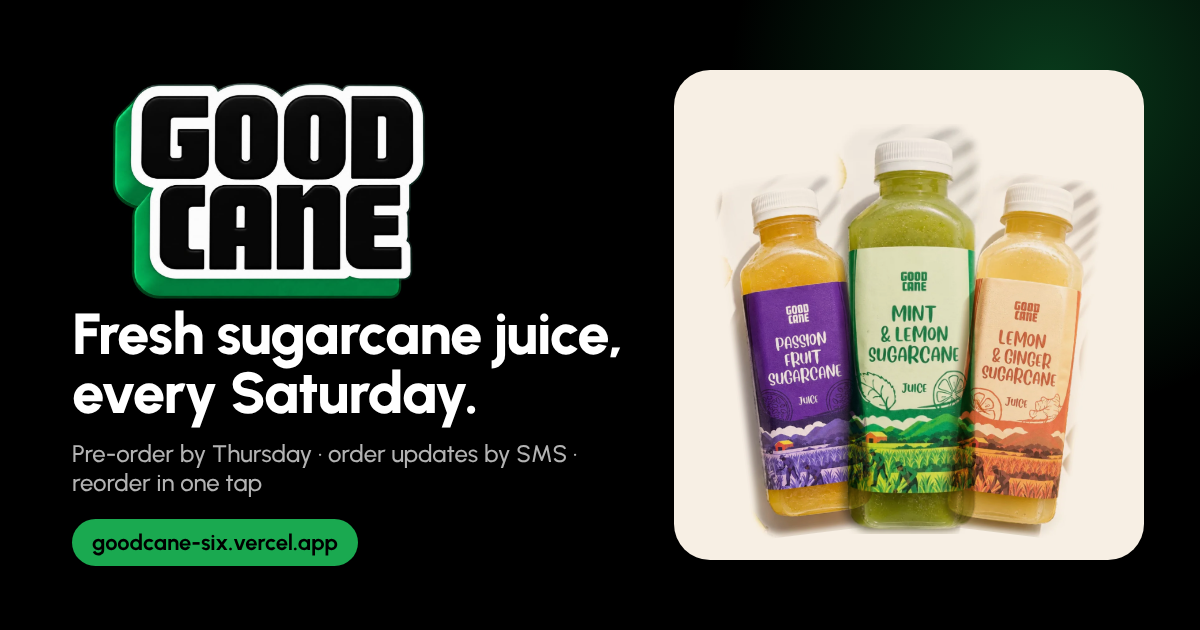
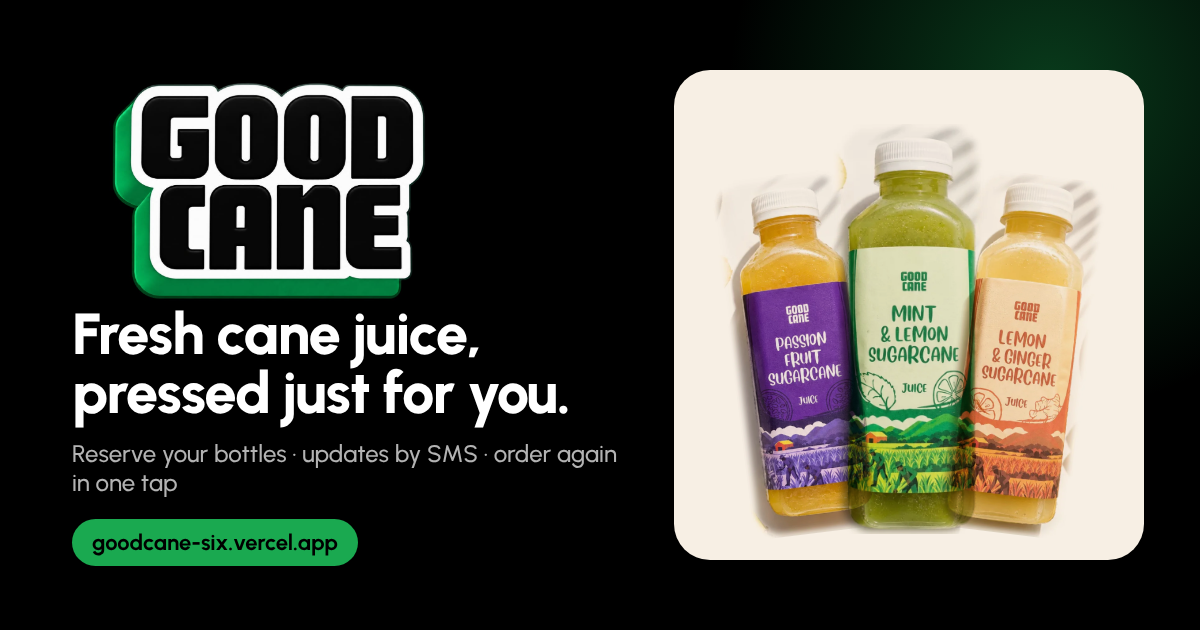
Friendlier shop copy without weekday wording; full submission PDF with judge access
- Customer pages show dates ("31 October") instead of weekdays
- New hero, banner and how-it-works copy
- docs/GoodCane-Submission.pdf: links, judge login, screenshots, write-up and measurement plan
- Write-up and README list the demo links and judge login

Claude-Session: https://claude.ai/code/session_01FJxmoPFWqV3xLp5Ecq4ud8

Changed region(s): [[0.0617, 0.5127, 0.5242, 0.7841]]

diff --git a/src/pages/customer/Home.tsx b/src/pages/customer/Home.tsx
@@ -1,5 +1,5 @@
 import { useEffect, useRef, useState } from 'react'
-import { formatDay, openBatches } from '../../domain/batches'
+import { formatDate, openBatches } from '../../domain/batches'
 import { BOTTLE_SIZE, PRODUCTS, TASTES } from '../../domain/catalog'
 import { BagIcon, BellIcon, ChatIcon, FilterIcon, HeartIcon, SearchIcon, SunIcon } from '../../components/icons'
 import { supabase } from '../../lib/supabase'
@@ -8,8 +8,6 @@ import { href, type Route } from '../../router'
 import { useShop } from '../../shop/ShopProvider'
 import { lastReorderable, reorderBatch } from './reorder'
 
-const weekday = (d: Date) => d.toLocaleDateString('en-GB', { weekday: 'long' })
-const hour = (d: Date) => `${d.getHours() % 12 || 12}${d.getHours() >= 12 ? 'pm' : 'am'}`
 
 export function Home({ route }: { route: Route }) {
   const { orders, now, me, basket, setBasketQty, favourites, toggleFavourite, flash } = useShop()
@@ -57,11 +55,14 @@ export function Home({ route }: { route: Route }) {
     <div className="home">
       <section className="home-top">
         <div className="home-title">
-          <h1>
-            Fresh from the cane,
-            <br />
-            every {weekday(next.productionDate)}
-          </h1>
+          <div>
+            <p className="greeting">Akwaaba</p>
+            <h1>
+              Fresh cane juice,
+              <br />
+              pressed just for you
+            </h1>
+          </div>
           <a className="round-btn" href={href('/account')} aria-label="Text reminders">
             <BellIcon />
           </a>
@@ -91,7 +92,7 @@ export function Home({ route }: { route: Route }) {
 
         <a className="promo" href={href('/cart')}>
           <div className="promo-text">
-            <span className="promo-kicker">Next batch · {formatDay(next.productionDate)}</span>
+            <span className="promo-kicker">Next fresh batch · {formatDate(next.productionDate)}</span>
             {reserved != null && reserved > 0 && (
               <span className="reserved">
                 <span className="pulse" aria-hidden="true" />
@@ -99,7 +100,7 @@ export function Home({ route }: { route: Route }) {
               </span>
             )}
             <strong>
-              Order by {weekday(next.cutoff)} {hour(next.cutoff)}. Pay when we confirm.
+              Reserve your bottles now. Pay only when we confirm.
             </strong>
             <span className="promo-row">
               <span className="pill-btn">Order now</span>
@@ -123,7 +124,7 @@ export function Home({ route }: { route: Route }) {
             <LinesList lines={last.lines} />
           </div>
           <a className="pill-btn dark" href={href(`/order?from=${last.id}`)}>
-            Order again for {formatDay(again.productionDate)}
+            Order again for {formatDate(again.productionDate)}
           </a>
         </section>
       )}
@@ -177,8 +178,8 @@ export function Home({ route }: { route: Route }) {
               <BagIcon />
             </span>
             <div>
-              <strong>Order by {weekday(next.cutoff)}</strong>
-              <p>Pick your juices, pickup or delivery. Nothing to pay yet.</p>
+              <strong>Choose your juice</strong>
+              <p>Pick your flavours and how you'd like to get them. No payment upfront.</p>
             </div>
           </li>
           <li>
@@ -186,8 +187,8 @@ export function Home({ route }: { route: Route }) {
               <ChatIcon />
             </span>
             <div>
-              <strong>We confirm by SMS</strong>
-              <p>Your order number arrives straight away, then a text once it's confirmed.</p>
+              <strong>We'll text you</strong>
+              <p>Your order number comes by SMS straight away, and we text again once it's confirmed.</p>
             </div>
           </li>
           <li>
@@ -195,8 +196,8 @@ export function Home({ route }: { route: Route }) {
               <SunIcon />
             </span>
             <div>
-              <strong>Fresh on {weekday(next.productionDate)}</strong>
-              <p>Pressed that morning. We text you when it's ready. Same again next week in one tap.</p>
+              <strong>Pressed fresh for you</strong>
+              <p>Squeezed on the day, never stored. Loved it? Order the same again in one tap.</p>
             </div>
           </li>
         </ol>

diff --git a/index.html b/index.html
@@ -7,20 +7,20 @@
     <link rel="manifest" href="/manifest.webmanifest" />
     <meta name="viewport" content="width=device-width, initial-scale=1.0" />
     <meta name="theme-color" content="#ffffff" />
-    <title>GoodCane · Fresh sugarcane juice, every Saturday</title>
-    <meta name="description" content="Pre-order GoodCane's fresh sugarcane juice by Thursday for Saturday's batch. Order updates by SMS and reorder in one tap." />
+    <title>GoodCane · Fresh cane juice, pressed just for you</title>
+    <meta name="description" content="Reserve fresh GoodCane sugarcane juice from Accra. Order updates by SMS, and order again in one tap." />
     <meta property="og:type" content="website" />
     <meta property="og:site_name" content="GoodCane" />
     <meta property="og:url" content="https://goodcane-six.vercel.app/" />
-    <meta property="og:title" content="GoodCane · Fresh sugarcane juice, every Saturday" />
-    <meta property="og:description" content="Pre-order by Thursday for Saturday's fresh batch. Order updates by SMS, reorder in one tap." />
+    <meta property="og:title" content="GoodCane · Fresh cane juice, pressed just for you" />
+    <meta property="og:description" content="Reserve your bottles from Accra's freshest sugarcane juice. Updates by SMS, order again in one tap." />
     <meta property="og:image" content="https://goodcane-six.vercel.app/og-image.png" />
     <meta property="og:image:width" content="1200" />
     <meta property="og:image:height" content="630" />
     <meta property="og:image:alt" content="GoodCane logo with three bottles of sugarcane juice" />
     <meta name="twitter:card" content="summary_large_image" />
-    <meta name="twitter:title" content="GoodCane · Fresh sugarcane juice, every Saturday" />
-    <meta name="twitter:description" content="Pre-order by Thursday for Saturday's fresh batch. Order updates by SMS, reorder in one tap." />
+    <meta name="twitter:title" content="GoodCane · Fresh cane juice, pressed just for you" />
+    <meta name="twitter:description" content="Reserve your bottles from Accra's freshest sugarcane juice. Updates by SMS, order again in one tap." />
     <meta name="twitter:image" content="https://goodcane-six.vercel.app/og-image.png" />
     <link rel="preconnect" href="https://fonts.googleapis.com" />
     <link rel="preconnect" href="https://fonts.gstatic.com" crossorigin />

diff --git a/src/pages/customer/Receipt.tsx b/src/pages/customer/Receipt.tsx
@@ -1,5 +1,5 @@
 import { useEffect, useState } from 'react'
-import { batchFromId, formatCutoff, formatDay } from '../../domain/batches'
+import { batchFromId, formatClose, formatDate } from '../../domain/batches'
 import { bottles, canCustomerCancel, formatOrderNumber } from '../../domain/orders'
 import { maskPhone } from '../../domain/sms'
 import type { Order, OrderStatus, SmsLog } from '../../domain/types'
@@ -98,7 +98,7 @@ export function Receipt({ id, route }: { id: string; route: Route }) {
           <StatusPill status={order.status} customer />
         </div>
         <p className="small muted">
-          {formatDay(batch.productionDate)} · {order.fulfilment === 'pickup' ? 'Pickup' : 'Delivery'} · {order.location}
+          {formatDate(batch.productionDate)} · {order.fulfilment === 'pickup' ? 'Pickup' : 'Delivery'} · {order.location}
         </p>
         <hr />
         <LinesList lines={order.lines} />
@@ -127,7 +127,7 @@ export function Receipt({ id, route }: { id: string; route: Route }) {
           <button className="btn btn-ghost btn-block" onClick={() => void cancel()} disabled={busy}>
             {busy ? 'Cancelling…' : 'Cancel order'}
           </button>
-          <p className="small muted center">You can cancel until {formatCutoff(batch.cutoff)}.</p>
+          <p className="small muted center">You can cancel until {formatClose(batch.cutoff)}.</p>
         </>
       )}
 
@@ -143,7 +143,7 @@ export function Receipt({ id, route }: { id: string; route: Route }) {
 
       {order.status !== 'cancelled' && mine && !isNew && (
         <a className="btn btn-primary btn-block" href={href(`/order?from=${order.id}&batch=${nextOpen.id}`)}>
-          Order this again for {formatDay(nextOpen.productionDate)}
+          Order this again for {formatDate(nextOpen.productionDate)}
         </a>
       )}
       <a className="btn btn-ghost btn-block" href={href('/orders')}>

diff --git a/src/pages/customer/OrderForm.tsx b/src/pages/customer/OrderForm.tsx
@@ -1,5 +1,5 @@
 import { useMemo, useState, type FormEvent } from 'react'
-import { formatCutoff, formatDay, openBatches } from '../../domain/batches'
+import { formatClose, formatDate, openBatches } from '../../domain/batches'
 import { bottles, formatOrderNumber, isValidPhone } from '../../domain/orders'
 import { DELIVERY_AREAS, PICKUP_POINTS, PRODUCTS } from '../../domain/catalog'
 import type { Fulfilment, Source } from '../../domain/types'
@@ -84,13 +84,13 @@ export function OrderForm({ route }: { route: Route }) {
       <div className="checkout-grid">
         <div className="checkout-main">
           <section className="panel">
-            <h2>Which Saturday?</h2>
+            <h2>Which batch?</h2>
             <div className="day-chips">
               {batches.map((b) => (
                 <label key={b.id} className={`day-chip ${b.id === batchId ? 'on' : ''}`}>
                   <input type="radio" name="batch" value={b.id} checked={b.id === batchId} onChange={() => setBatchId(b.id)} />
-                  <strong>{formatDay(b.productionDate)}</strong>
-                  <span>order by {formatCutoff(b.cutoff)}</span>
+                  <strong>{formatDate(b.productionDate)}</strong>
+                  <span>orders close {formatClose(b.cutoff)}</span>
                 </label>
               ))}
             </div>
@@ -173,7 +173,7 @@ export function OrderForm({ route }: { route: Route }) {
           </div>
           <div className="summary-line">
             <span>Collect</span>
-            <strong>{formatDay(batch.productionDate)}</strong>
+            <strong>{formatDate(batch.productionDate)}</strong>
           </div>
           <div className="summary-line total">
             <span>Payment</span>

diff --git a/src/pages/customer/Cart.tsx b/src/pages/customer/Cart.tsx
@@ -1,5 +1,5 @@
 import { useRef, useState } from 'react'
-import { formatCutoff, formatDay, openBatches } from '../../domain/batches'
+import { formatClose, formatDate, openBatches } from '../../domain/batches'
 import { BOTTLE_SIZE, PRODUCTS } from '../../domain/catalog'
 import type { Product } from '../../domain/types'
 import { TrashIcon } from '../../components/icons'
@@ -93,7 +93,7 @@ export function Cart({ route }: { route: Route }) {
           </div>
           <h2>Nothing here yet</h2>
           <p>
-            Pick a few juices for {formatDay(next.productionDate)}. Orders close {formatCutoff(next.cutoff)}.
+            Pick a few juices for {formatDate(next.productionDate)}. Orders close {formatClose(next.cutoff)}.
           </p>
           <a className="pill-btn dark big" href={href('/')}>
             See the menu
@@ -127,7 +127,7 @@ export function Cart({ route }: { route: Route }) {
             </div>
             <div className="summary-line">
               <span>Next batch</span>
-              <strong>{formatDay(next.productionDate)}</strong>
+              <strong>{formatDate(next.productionDate)}</strong>
             </div>
             <div className="summary-line dashed">
               <span>Payment</span>

diff --git a/src/pages/customer/Flavour.tsx b/src/pages/customer/Flavour.tsx
@@ -1,5 +1,5 @@
 import { useRef, useState } from 'react'
-import { formatCutoff, formatDay, openBatches } from '../../domain/batches'
+import { formatClose, formatDate, openBatches } from '../../domain/batches'
 import { BOTTLE_SIZE, PRODUCTS } from '../../domain/catalog'
 import { ArrowsIcon, BackIcon, HeartIcon, ShareIcon } from '../../components/icons'
 import { Stepper } from '../../components/ui'
@@ -132,7 +132,7 @@ export function Flavour({ id }: { id: string }) {
             </button>
           </div>
           <p className="fine">
-            {inOrder > 0 ? `${inOrder} in your order · ` : ''}For {formatDay(next.productionDate)}, order by {formatCutoff(next.cutoff)}. Price confirmed by SMS.
+            {inOrder > 0 ? `${inOrder} in your order · ` : ''}For {formatDate(next.productionDate)}, orders close {formatClose(next.cutoff)}. Price confirmed by SMS.
           </p>
           {inOrder > 0 && (
             <a className="link" href={href('/cart')}>

diff --git a/src/pages/customer/MyOrders.tsx b/src/pages/customer/MyOrders.tsx
@@ -1,5 +1,5 @@
 import { useState, type FormEvent } from 'react'
-import { batchFromId, formatDay } from '../../domain/batches'
+import { batchFromId, formatDate } from '../../domain/batches'
 import { bottles, formatOrderNumber, isValidPhone } from '../../domain/orders'
 import { LinesList, StatusPill, productById, productName } from '../../components/ui'
 import { href } from '../../router'
@@ -125,7 +125,7 @@ export function MyOrders() {
                   </span>
                   <span className="order-item-main">
                     <strong>
-                      {formatOrderNumber(o.number)} · {formatDay(batchFromId(o.batchId).productionDate)}
+                      {formatOrderNumber(o.number)} · {formatDate(batchFromId(o.batchId).productionDate)}
                     </strong>
                     <span>
                       {o.lines.map((l) => productName(l.productId).replace(' Sugarcane', '')).join(', ')} · {bottles(o.lines)} bottle

diff --git a/src/domain/batches.ts b/src/domain/batches.ts
@@ -70,6 +70,20 @@ const timeFmt = new Intl.DateTimeFormat('en-GB', { hour: '2-digit', minute: '2-d
 
 const shortFmt = new Intl.DateTimeFormat('en-GB', { day: 'numeric', month: 'short' })
 
+const dateFmt = new Intl.DateTimeFormat('en-GB', { day: 'numeric', month: 'long' })
+
+/** Customer-facing date without the weekday: "31 October". */
+export function formatDate(d: Date): string {
+  return dateFmt.format(d)
+}
+
+/** Customer-facing closing time: "29 October, 6pm". */
+export function formatClose(d: Date): string {
+  const h = d.getHours()
+  const m = d.getMinutes()
+  return `${dateFmt.format(d)}, ${h % 12 || 12}${m ? `:${String(m).padStart(2, '0')}` : ''}${h >= 12 ? 'pm' : 'am'}`
+}
+
 export function formatShort(d: Date): string {
   return shortFmt.format(d)
 }

diff --git a/src/index.css b/src/index.css
@@ -576,3 +576,5 @@ button, input, select { font: inherit; color: inherit; }
 .gate-bottles { background: var(--cream); border-radius: 24px; padding-top: 14px; overflow: hidden; }
 .gate-bottles img { mix-blend-mode: multiply; filter: none; }
 @media (min-width: 900px) { .gate-bottles { height: 340px; padding-top: 30px; } }
+
+.greeting { font-size: .8rem; font-weight: 700; letter-spacing: .14em; text-transform: uppercase; color: #1d9a4d; margin-bottom: 6px; }

diff --git a/src/AdminApp.tsx b/src/AdminApp.tsx
@@ -28,7 +28,7 @@ function GateArt() {
       </div>
       <div className="gate-copy">
         <p className="gate-kicker">Staff room</p>
-        <h2>Know Saturday's batch before the cane is cut.</h2>
+        <h2>Know exactly what to press, before the cane is cut.</h2>
         <ul>
           <li>Live orders and demand</li>
           <li>Texts that send themselves</li>

diff --git a/docs/WRITEUP.md b/docs/WRITEUP.md
@@ -2,6 +2,19 @@
 
 > Built for the CODED × GoodCane Virtual Paid Gig (EP11). Orders and texts are live, and the database was reset so it holds only real orders. No payments are connected; GoodCane records payment by hand. Demo video: https://goodcane-six.vercel.app/demo.mp4
 
+## Links and demo access for judges
+
+| | |
+|---|---|
+| **Live shop** | https://goodcane-six.vercel.app |
+| **Staff dashboard** | https://goodcane-six.vercel.app/admin |
+| **Staff login** | Email `admin@goodcane.app` · Password `GoodCane-YmzgvnMyHB` |
+| **Demo video** | https://goodcane-six.vercel.app/demo.mp4 |
+| **Full submission PDF** | https://goodcane-six.vercel.app/GoodCane-Submission.pdf ([in this repo](GoodCane-Submission.pdf)) |
+| **Code** | https://github.com/edstudios73-svg/good-cane- |
+
+The staff login is shared for judging only and will be changed afterwards. To see the full flow: place an order on the shop with your own phone number, then sign in to the dashboard and confirm it. The customer gets a text at each step.
+
 ## 1. The customer problem
 
 GoodCane makes sugarcane juice in **weekly batches** (from its public TikTok posts: Passion fruit, Lemon ginger, Raw sugarcane, Mint lemon, Tigernut coconut). The juice has no preservatives, so it can't sit on a shelf for long. Orders currently come in through WhatsApp and walk-ins.

diff --git a/README.md b/README.md
@@ -5,6 +5,8 @@ Weekly pre-ordering for GoodCane's fresh sugarcane juice. Customers order for th
 - **Shop:** `/`
 - **Staff dashboard:** `/admin/` (Supabase email login, staff only)
 
+**Live demo:** https://goodcane-six.vercel.app · **Staff:** https://goodcane-six.vercel.app/admin (judges: `admin@goodcane.app` / `GoodCane-YmzgvnMyHB`) · **Video:** https://goodcane-six.vercel.app/demo.mp4 · **Submission PDF:** [docs/GoodCane-Submission.pdf](docs/GoodCane-Submission.pdf)
+
 Docs: [write-up](docs/WRITEUP.md) · [measurement and pilot plan](docs/MEASUREMENT.md) · [demo video script](docs/VIDEO_SCRIPT.md)
 
 ## Stack
